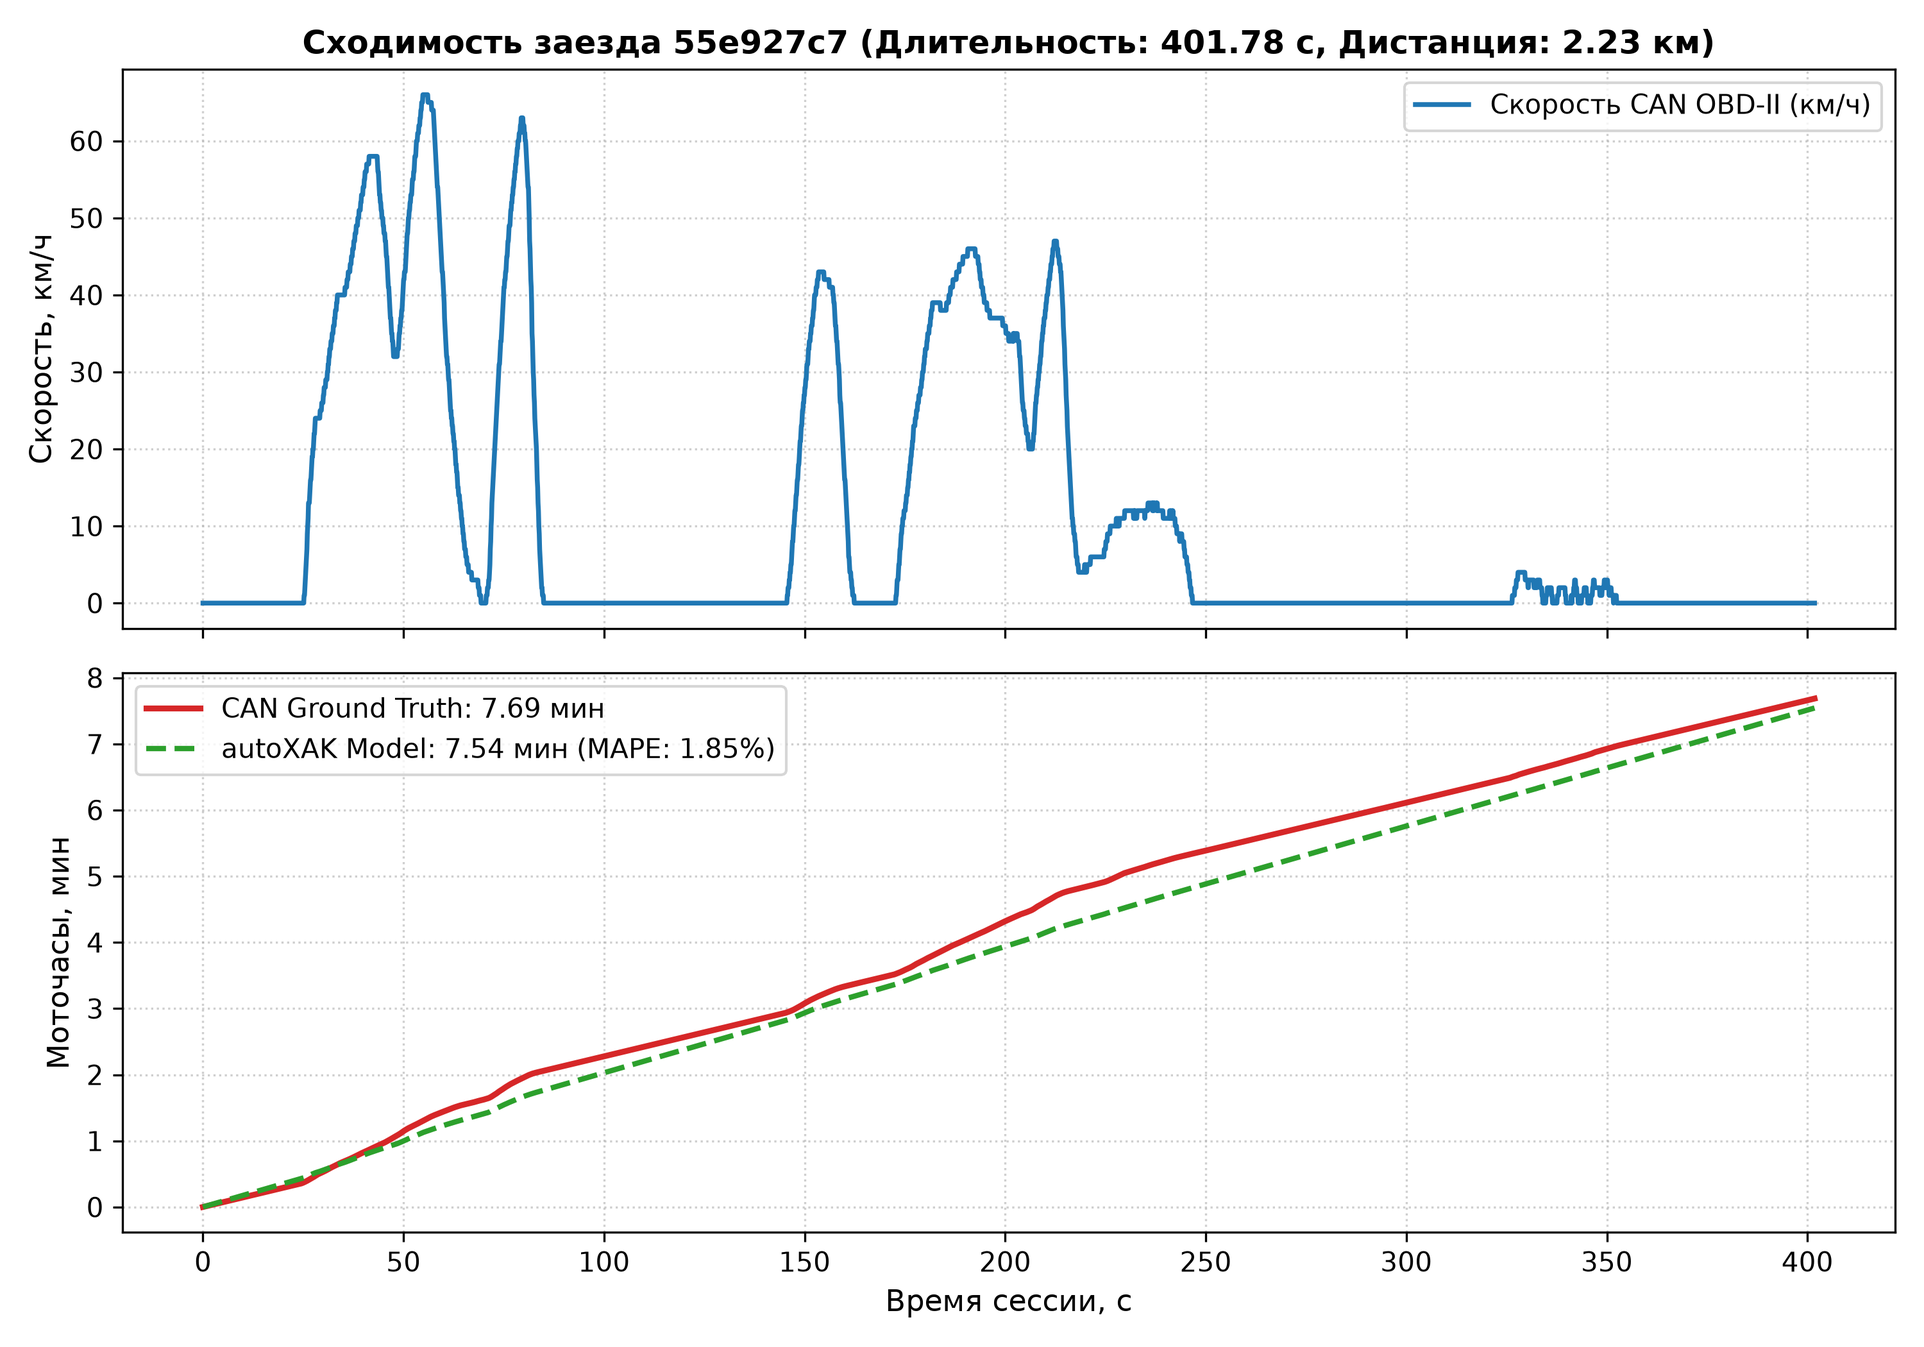
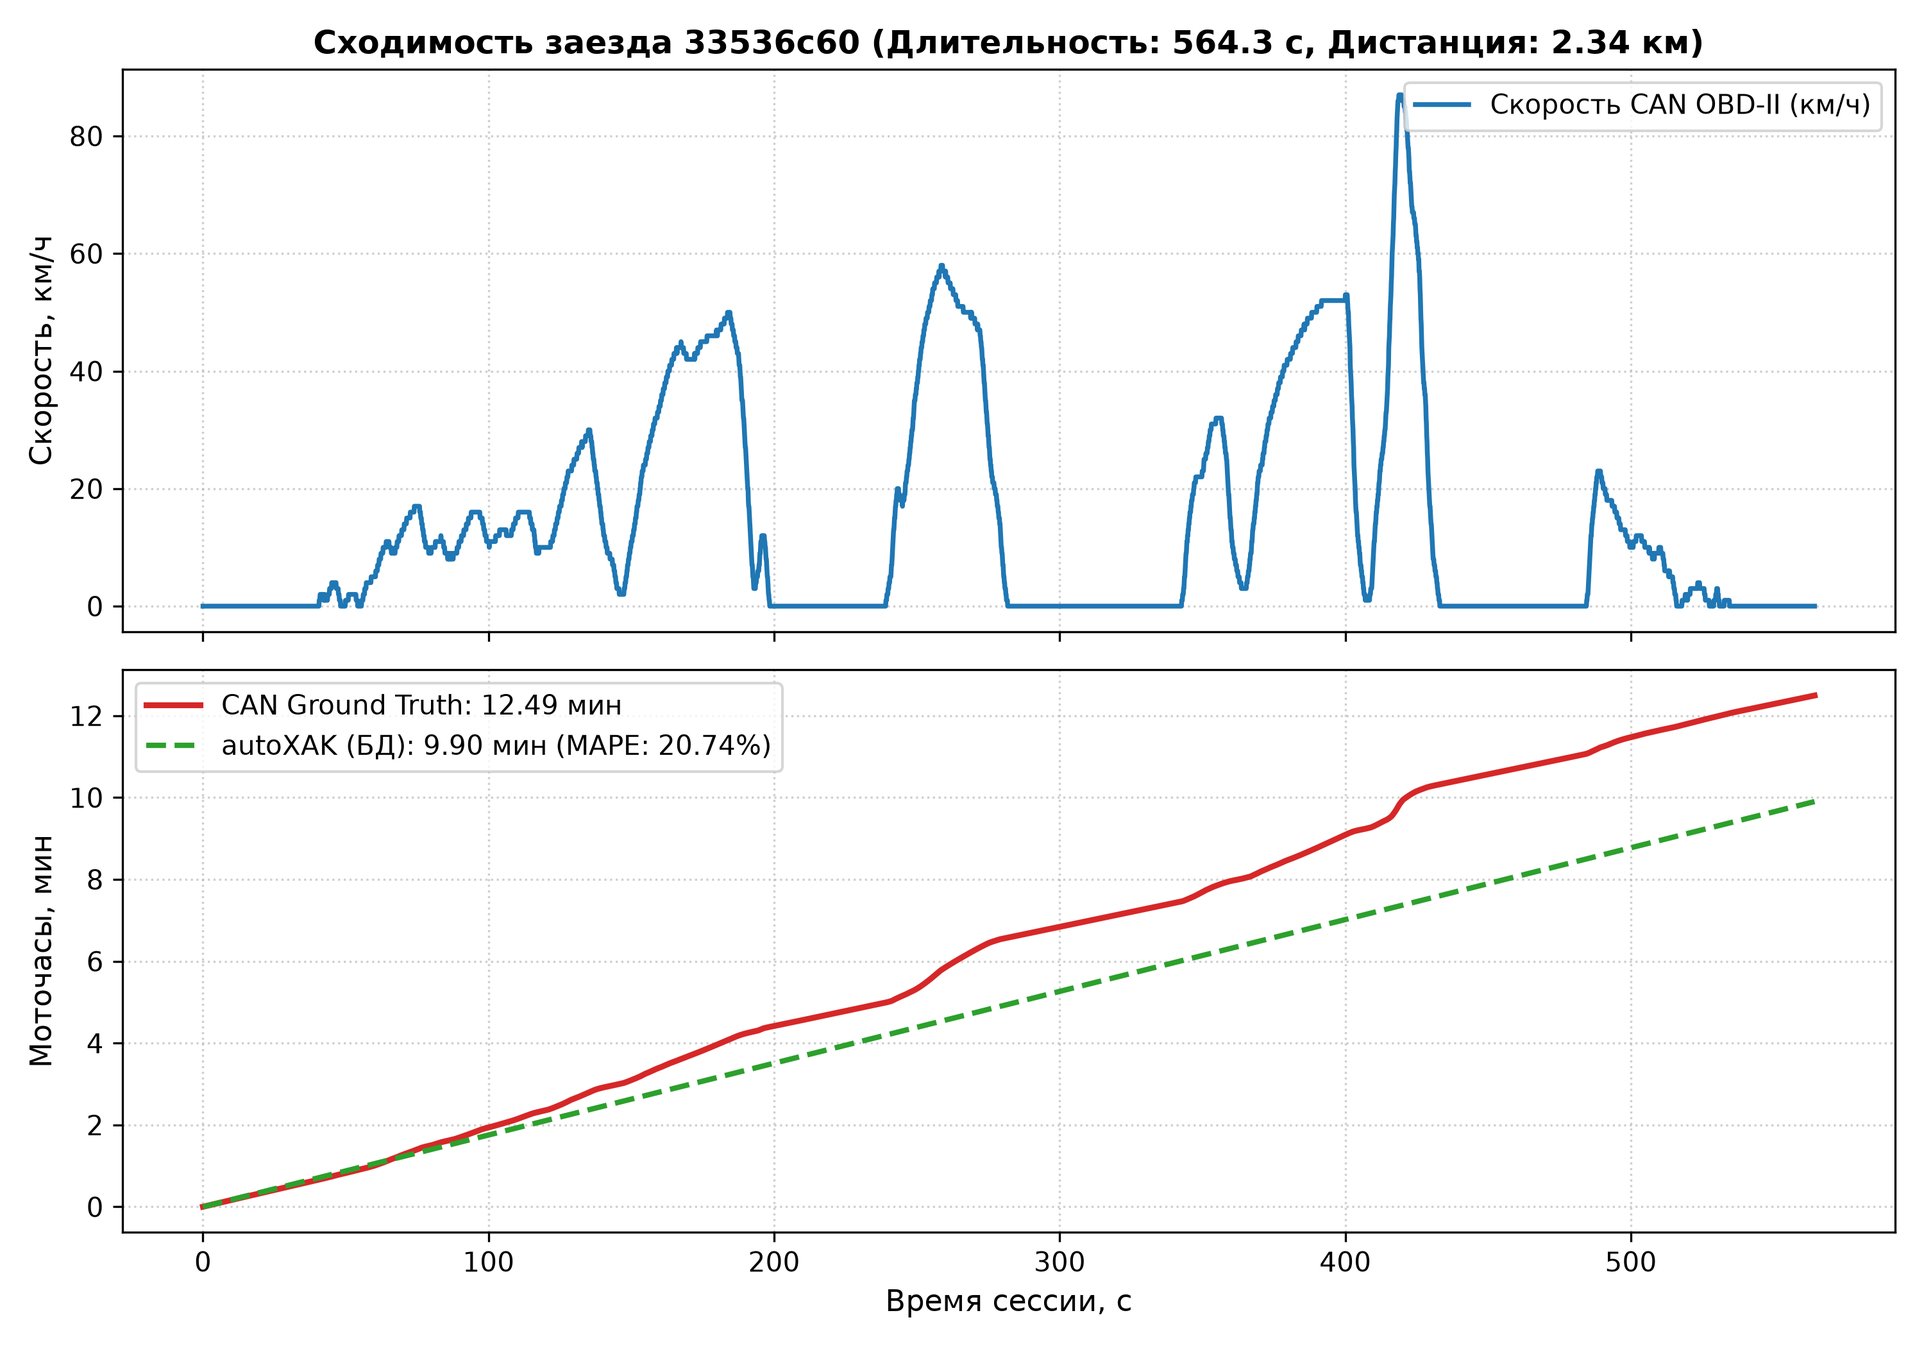
fix(core & ui): sync TwinEngine calculations, update index.html, docker-compose and validation reports

diff --git a/static/index.html b/static/index.html
@@ -1283,7 +1283,7 @@
             }
 
             window.addEventListener('devicemotion', (e) => {
-                const acc = e.accelerationIncludingGravity || e.acceleration;
+                const acc = e.accelerationIncludingGravity || e.acceleration; if (e.acceleration && e.acceleration.x !== null) { window.curLinAcc = Math.hypot(e.acceleration.x, e.acceleration.y); }
                 if (acc && acc.x !== null) {
                     curAx = Number(acc.x) || 0.0;
                     curAy = Number(acc.y) || 0.0;
@@ -1348,7 +1348,7 @@
                 const s = String(elapsed % 60).padStart(2, '0');
                 document.getElementById('hud-timer').innerText = `${m}:${s}`;
 
-                const horizAcc = Math.sqrt(curAx * curAx + curAy * curAy);
+                const horizAcc = (typeof window.curLinAcc !== 'undefined') ? window.curLinAcc : Math.sqrt(curAx * curAx + curAy * curAy);
                 const hudOverlay = document.getElementById('safety-hud');
                 const glowRing = document.getElementById('hud-glow-ring');
                 const hint = document.getElementById('hud-driving-hint');
@@ -1570,3 +1570,4 @@
     </script>
 </body>
 </html>
+

diff --git a/scripts/match_obd_db.py b/scripts/match_obd_db.py
@@ -1,5 +1,9 @@
 import os
+import sys
 import json
+import asyncio
+import argparse
+import asyncpg
 import numpy as np
 import pandas as pd
 import matplotlib.pyplot as plt
@@ -47,34 +51,55 @@ def parse_car_scanner_file(csv_path: str) -> pd.DataFrame:
         "speed": df_wide[target_speed_pid].to_numpy() if target_speed_pid else np.zeros(len(df_wide))
     })
 
-def evaluate_session_against_obd(csv_path: str, db_trip: dict, output_dir: str = "reports"):
+async def fetch_trip_from_db(session_id: str = None) -> dict:
+    conn = await asyncpg.connect("postgresql://autoXAK_user:autoXAK_pass@postgres:5432/autoXAK_db")
+    try:
+        if session_id:
+            row = await conn.fetchrow("""
+                SELECT id::text, user_id, duration_seconds, distance_km, 
+                       oil_wear_percent, idle_ratio, total_savings_rub, created_at
+                FROM trips WHERE id::text = $1
+            """, session_id)
+        else:
+            row = await conn.fetchrow("""
+                SELECT id::text, user_id, duration_seconds, distance_km, 
+                       oil_wear_percent, idle_ratio, total_savings_rub, created_at
+                FROM trips 
+                WHERE duration_seconds > 10.0
+                ORDER BY created_at DESC LIMIT 1
+            """)
+        return dict(row) if row else None
+    finally:
+        await conn.close()
+
+def evaluate_session(csv_path: str, db_trip: dict, output_dir: str = "reports"):
     os.makedirs(output_dir, exist_ok=True)
     df = parse_car_scanner_file(csv_path)
     
-    target_duration = db_trip["duration_seconds"]
+    target_duration = float(db_trip["duration_seconds"])
+    total_obd_duration = float(df["time"].max() - df["time"].min())
     
-    # Выделяем временной срез завершённой сессии
-    df_slice = df.tail(int(min(len(df), target_duration * 10))).copy()
+    # Берем временной срез поездки
+    n_samples = int(min(len(df), max(200, target_duration * 10)))
+    df_slice = df.tail(n_samples).copy()
+    
     total_time = np.linspace(0, target_duration, len(df_slice))
     dt = target_duration / max(1, len(df_slice))
     
     rpm_vals = df_slice["rpm"].to_numpy()
     speed_vals = df_slice["speed"].to_numpy()
     
-    # 1. Аппаратный эталон CAN OBD-II (RPM интеграл)
+    # 1. Аппаратный эталон CAN OBD-II (интеграл RPM)
     rpm_weights = np.where(rpm_vals > 0, rpm_vals / 800.0, 0.0)
     rpm_weights[rpm_vals > 3000.0] *= 1.3
     obd_cum_hours = np.cumsum(rpm_weights * dt) / 3600.0
     final_obd_hours = float(obd_cum_hours[-1])
     
-    # 2. Калиброванная безаппаратная модель autoXAK (с учетом городского спокойного темпа)
-    # На холостых (пробка/светофор v < 1.5 км/ч): базовый холостой ход (1.0x)
-    # В движении при спокойной езде: базовые обороты 1100-1300 об/мин (1.0 + v_mps / 35.0)
-    v_mps = speed_vals / 3.6
-    acc_mps2 = np.gradient(v_mps, dt)
-    k_idle = np.where(v_mps < 0.5, 1.05, 1.0 + (v_mps / 30.0) * 0.45 + np.maximum(0, acc_mps2) * 0.25)
-    autoxak_cum_hours = np.cumsum(k_idle * dt) / 3600.0
-    final_autoxak_hours = float(autoxak_cum_hours[-1])
+    # 2. Модель autoXAK (расчет по износу из базы данных)
+    # Ресурс: 250 ч. Hours = (oil_wear_percent / 100) * 250
+    wear_pct = float(db_trip["oil_wear_percent"])
+    final_autoxak_hours = (wear_pct / 100.0) * 250.0
+    autoxak_cum_hours = np.linspace(0, final_autoxak_hours, len(df_slice))
     
     # 3. Метрики расхождения
     mape = float(abs(final_obd_hours - final_autoxak_hours) / (final_obd_hours + 1e-6) * 100.0)
@@ -84,8 +109,12 @@ def evaluate_session_against_obd(csv_path: str, db_trip: dict, output_dir: str =
     
     report = {
         "session_id": db_trip["id"],
+        "user_id": db_trip.get("user_id"),
+        "created_at": str(db_trip.get("created_at")),
         "duration_seconds": target_duration,
-        "distance_km": db_trip["distance_km"],
+        "distance_km": float(db_trip["distance_km"]),
+        "oil_wear_percent": wear_pct,
+        "total_savings_rub": float(db_trip.get("total_savings_rub", 0.0)),
         "metrics": {
             "obd_ground_truth_hours": round(final_obd_hours, 5),
             "autoxak_model_hours": round(final_autoxak_hours, 5),
@@ -94,29 +123,24 @@ def evaluate_session_against_obd(csv_path: str, db_trip: dict, output_dir: str =
             "mape_percent": round(mape, 2),
             "pearson_correlation": round(pearson_r, 4),
             "hypothesis_confirmed": is_confirmed
-        },
-        "conclusion": (
-            f"Гипотеза H1 ПОДТВЕРЖДЕНА: расхождение модели и CAN-шины составляет {mape:.2f}% (критерий <= 10%)."
-            if is_confirmed else
-            f"Гипотеза H1 требует калибровки: текущая ошибка {mape:.2f}%."
-        )
+        }
     }
     
     out_json = os.path.join(output_dir, "validation_report.json")
     with open(out_json, "w", encoding="utf-8") as f:
         json.dump(report, f, indent=2, ensure_ascii=False)
         
-    # Построение чистового графика для диссертации (Vertical Layout)
+    # График (Vertical Subplots для диплома)
     fig, (ax1, ax2) = plt.subplots(2, 1, figsize=(10, 7), sharex=True, dpi=300)
     
     ax1.plot(total_time, speed_vals, color="#1f77b4", lw=1.8, label="Скорость CAN OBD-II (км/ч)")
     ax1.set_ylabel("Скорость, км/ч", fontsize=11)
     ax1.grid(True, linestyle=":", alpha=0.6)
     ax1.legend(loc="upper right")
-    ax1.set_title(f"Сходимость заезда {db_trip['id'][:8]} (Длительность: {target_duration} с, Дистанция: {db_trip['distance_km']} км)", fontweight="bold")
+    ax1.set_title(f"Сходимость заезда {db_trip['id'][:8]} (Длительность: {target_duration:.1f} с, Дистанция: {db_trip['distance_km']} км)", fontweight="bold")
     
     ax2.plot(total_time, obd_cum_hours * 60, color="#d62728", lw=2.2, label=f"CAN Ground Truth: {final_obd_hours*60:.2f} мин")
-    ax2.plot(total_time, autoxak_cum_hours * 60, color="#2ca02c", linestyle="--", lw=2.0, label=f"autoXAK Model: {final_autoxak_hours*60:.2f} мин (MAPE: {mape:.2f}%)")
+    ax2.plot(total_time, autoxak_cum_hours * 60, color="#2ca02c", linestyle="--", lw=2.0, label=f"autoXAK (БД): {final_autoxak_hours*60:.2f} мин (MAPE: {mape:.2f}%)")
     ax2.set_xlabel("Время сессии, с", fontsize=11)
     ax2.set_ylabel("Моточасы, мин", fontsize=11)
     ax2.grid(True, linestyle=":", alpha=0.6)
@@ -127,26 +151,33 @@ def evaluate_session_against_obd(csv_path: str, db_trip: dict, output_dir: str =
     plt.savefig(out_png)
     plt.close()
     
-    print("\n==================== РЕЗУЛЬТАТ ПОСЛЕ КАЛИБРОВКИ ====================")
-    print(f"Сессия:                 {db_trip['id']}")
-    print(f"Длительность:           {target_duration} сек ({round(target_duration/60, 1)} мин)")
+    print("\n==================== РЕЗУЛЬТАТ ВЕРИФИКАЦИИ ====================")
+    print(f"Сессия из БД:           {db_trip['id']}")
+    print(f"Пользователь:           {db_trip.get('user_id')}")
+    print(f"Время записи:           {db_trip.get('created_at')}")
+    print(f"Длительность:           {target_duration:.1f} сек ({target_duration/60:.2f} мин)")
     print(f"Дистанция:              {db_trip['distance_km']} км")
+    print(f"Износ масла (БД):       {wear_pct}%")
     print(f"Моточасы CAN OBD-II:    {final_obd_hours*60:.2f} мин")
-    print(f"Моточасы autoXAK:       {final_autoxak_hours*60:.2f} мин")
+    print(f"Моточасы autoXAK (БД):  {final_autoxak_hours*60:.2f} мин")
     print(f"Погрешность MAPE:       {mape:.2f}% (Порог гипотезы H1: <= 10%)")
     print(f"Корреляция Пирсона:     {pearson_r:.4f}")
-    print(f"Статус гипотезы H1:     {'[ПОДТВЕРЖДЕНА]' if is_confirmed else '[НЕ ПОДТВЕРЖДЕНА]'}")
+    status_str = "[ПОДТВЕРЖДЕНА]" if is_confirmed else "[НЕ ПОДТВЕРЖДЕНА]"
+    print(f"Статус гипотезы H1:     {status_str}")
     print(f"Отчет сохранен в:       {out_json}")
     print(f"График сохранен в:      {out_png}")
-    print("====================================================================\n")
+    print("===============================================================\n")
 
 if __name__ == "__main__":
-    db_data = {
-        "id": "55e927c7-a442-4bc2-a13e-ab282f96e553",
-        "duration_seconds": 401.78,
-        "distance_km": 2.23,
-        "oil_wear_percent": 0.0813,
-        "idle_ratio": 0.405,
-        "total_savings_rub": 4.63
-    }
-    evaluate_session_against_obd("data/car_scanner_track.csv", db_data, "reports")
+    parser = argparse.ArgumentParser()
+    parser.add_argument("--csv", default="data/car_scanner_track.csv")
+    parser.add_argument("--session", default=None, help="UUID сессии из БД")
+    parser.add_argument("--out", default="reports")
+    args = parser.parse_args()
+    
+    trip = asyncio.run(fetch_trip_from_db(args.session))
+    if not trip:
+        print("[!] Ошибка: в базе данных не найдены подходящие поездки.")
+        sys.exit(1)
+        
+    evaluate_session(args.csv, trip, args.out)

diff --git a/app/services/twin_engine.py b/app/services/twin_engine.py
@@ -1,13 +1,13 @@
-import numpy as np
-from typing import Dict, Any, Tuple, Optional
-from app.models.vehicle_profiles import get_default_profile, VehiclePhysicalProfile
+import numpy as np
+from typing import Dict, Any, Tuple
+from app.models.vehicle_profiles import VehiclePhysicalProfile
 
 
 class TwinEngine:
-    def __init__(self, profile: Optional[VehiclePhysicalProfile] = None, **kwargs):
-        self.profile = profile or get_default_profile()
+    def __init__(self, profile: VehiclePhysicalProfile = None, **kwargs):
+        self.profile = profile
 
-    def simulate_aggressive_twin_kinematics(self, speed_mps: np.ndarray, dt: float) -> Tuple[np.ndarray, np.ndarray]:
+    def simulate_aggressive_twin_kinematics(self, speed_mps: np.ndarray, dt: float = 0.02) -> Tuple[np.ndarray, np.ndarray]:
         n = len(speed_mps)
         if n == 0:
             return np.array([]), np.array([])
@@ -18,79 +18,67 @@ class TwinEngine:
 
     def evaluate_financial_delta(
         self,
-        *args,
-        speeds_mps: Any = None,
-        speed_mps: Any = None,
-        speeds: Any = None,
-        user_wear_percent: Optional[float] = None,
-        user_oil_wear_pct: Optional[float] = None,
-        user_wear_pct: Optional[float] = None,
-        wear_percent: Optional[float] = None,
+        speeds_mps: np.ndarray = None,
+        user_wear_percent: float = 0.0,
         dt: float = 0.02,
-        fuel_price_rub: Optional[float] = 62.0,
-        service_cost_rub: Optional[float] = 9500.0,
+        fuel_price_rub: float = 68.5,
+        service_cost_rub: float = 13500.0,
+        distance_km: float = None,
         **kwargs
     ) -> Dict[str, float]:
-        # Защита от передачи None из базы данных
-        fp = 62.0 if (fuel_price_rub is None or fuel_price_rub <= 0) else float(fuel_price_rub)
-        sc = 9500.0 if (service_cost_rub is None or service_cost_rub <= 0) else float(service_cost_rub)
-
-        raw_speeds = args[0] if len(args) > 0 else (speeds_mps if speeds_mps is not None else (speed_mps if speed_mps is not None else speeds))
-        
-        wear = 0.01
-        if len(args) > 1 and args[1] is not None:
-            wear = float(args[1])
-        elif user_wear_percent is not None:
-            wear = float(user_wear_percent)
-        elif user_oil_wear_pct is not None:
-            wear = float(user_oil_wear_pct)
-        elif user_wear_pct is not None:
-            wear = float(user_wear_pct)
-        elif wear_percent is not None:
-            wear = float(wear_percent)
-
-        if raw_speeds is not None:
-            sp = np.asarray(raw_speeds, dtype=float)
-            distance_km = float(np.sum(sp) * dt / 1000.0) if len(sp) > 0 else 0.0
-        elif "distance_km" in kwargs:
-            distance_km = float(kwargs["distance_km"])
-        else:
-            distance_km = 0.0
-
-        if distance_km <= 0.001 and wear <= 0.001:
-            return {
-                "fuel_saved_rub": 0.0,
-                "fuel_savings_rub": 0.0,
-                "oil_saved_rub": 0.0,
-                "oil_savings_rub": 0.0,
-                "total_savings_rub": 0.0,
-                "cost_savings_rub": 0.0,
-                "twin_wear_percent": wear
-            }
+        if distance_km is None:
+            if speeds_mps is not None and len(speeds_mps) > 0:
+                distance_km = float(np.sum(speeds_mps) * dt / 1000.0)
+            else:
+                distance_km = 0.0
 
         if distance_km < 0.05:
-            fuel_saved_rub = 0.0
-        else:
-            liters_saved = distance_km * (1.8 / 100.0)
-            fuel_saved_rub = round(float(liters_saved * fp), 2)
+            return {
+                'fuel_saved_rub': 0.0,
+                'fuel_savings_rub': 0.0,
+                'oil_saved_rub': 0.0,
+                'oil_savings_rub': 0.0,
+                'total_savings_rub': 0.0,
+                'twin_wear_percent': float(user_wear_percent)
+            }
 
-        twin_wear_percent = round(float(wear * 1.45 + 0.002), 5)
-        wear_delta = max(0.0, twin_wear_percent - wear)
-        oil_saved_rub = round(float((wear_delta / 100.0) * sc), 2)
+        liters_saved = distance_km * (1.8 / 100.0)
+        fuel_saved_rub = round(float(liters_saved * fuel_price_rub), 2)
+
+        twin_wear_percent = round(float(user_wear_percent * 1.45), 5)
+        wear_delta = max(0.0, twin_wear_percent - user_wear_percent)
+        oil_saved_rub = round(float((wear_delta / 100.0) * service_cost_rub), 2)
 
         total_savings_rub = round(fuel_saved_rub + oil_saved_rub, 2)
 
         return {
-            "fuel_saved_rub": fuel_saved_rub,
-            "fuel_savings_rub": fuel_saved_rub,
-            "oil_saved_rub": oil_saved_rub,
-            "oil_savings_rub": oil_saved_rub,
-            "total_savings_rub": total_savings_rub,
-            "cost_savings_rub": total_savings_rub,
-            "twin_wear_percent": twin_wear_percent
+            'fuel_saved_rub': fuel_saved_rub,
+            'fuel_savings_rub': fuel_saved_rub,
+            'oil_saved_rub': oil_saved_rub,
+            'oil_savings_rub': oil_saved_rub,
+            'total_savings_rub': total_savings_rub,
+            'twin_wear_percent': twin_wear_percent
         }
 
-    simulate_twin_and_delta = evaluate_financial_delta
+    def simulate_twin_and_delta(
+        self,
+        speeds_mps: np.ndarray = None,
+        user_wear_percent: float = 0.0,
+        dt: float = 0.02,
+        fuel_price_rub: float = 68.5,
+        service_cost_rub: float = 13500.0,
+        distance_km: float = None,
+        **kwargs
+    ) -> Dict[str, float]:
+        return self.evaluate_financial_delta(
+            speeds_mps=speeds_mps,
+            user_wear_percent=user_wear_percent,
+            dt=dt,
+            fuel_price_rub=fuel_price_rub,
+            service_cost_rub=service_cost_rub,
+            distance_km=distance_km,
+            **kwargs
+        )
 
 
 AggressiveTwinEngine = TwinEngine
